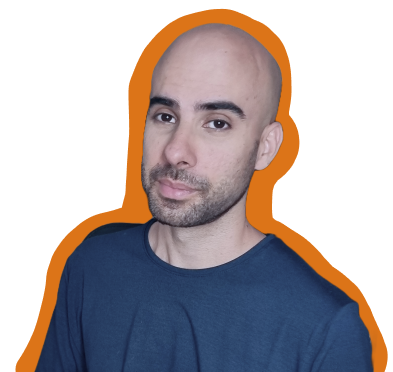
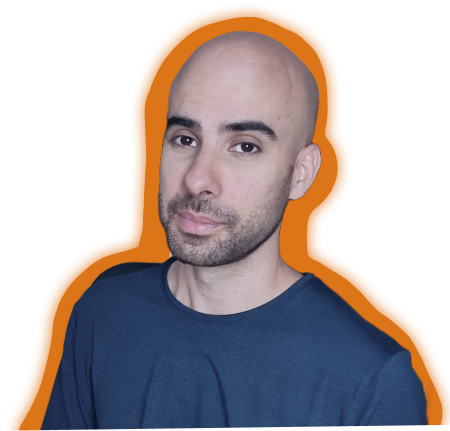
test picssssss

diff --git a/styles/picture.css b/styles/picture.css
@@ -7,7 +7,7 @@
 }
 
 .aula-small-pic-container img {
-    width: 144px;
+    width: 160px;
     height: auto;
 }
 
